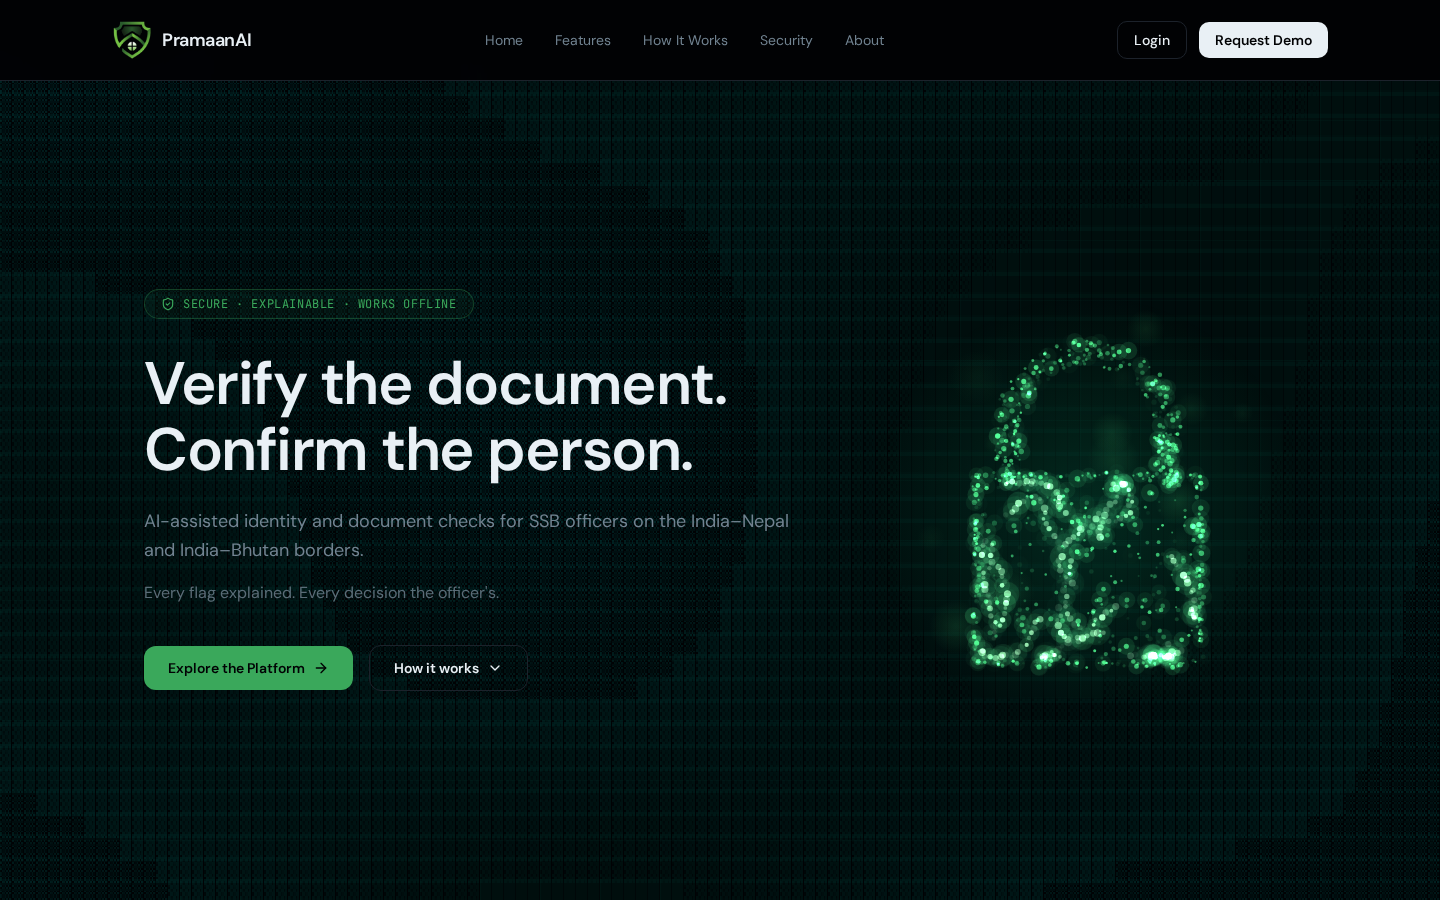
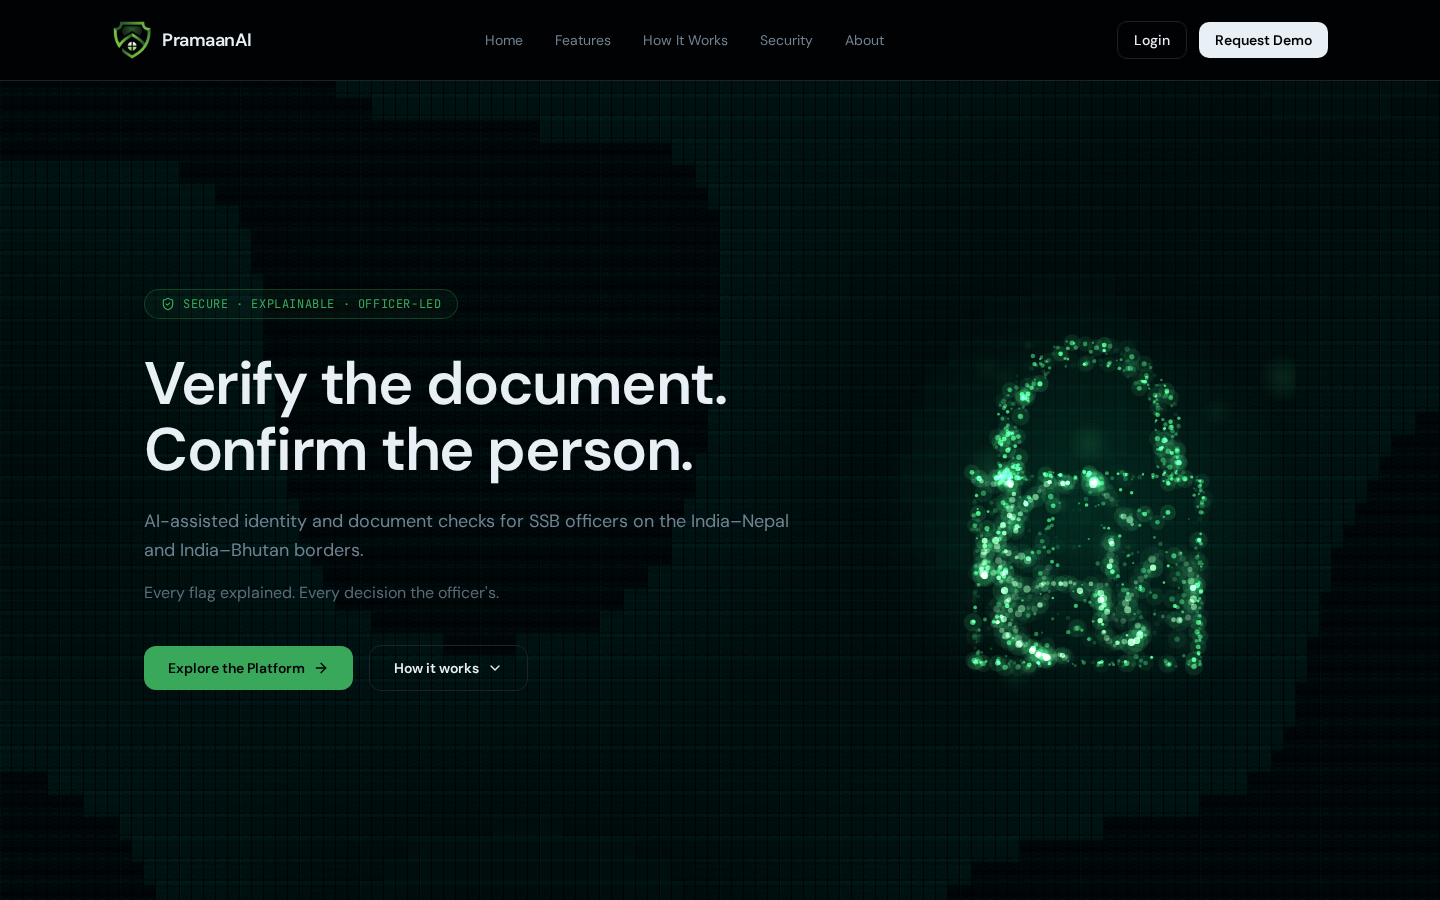
Landing: officer-led focus; add SSB operations and trust sections
Removes 'works offline'. Adds border-aware rules, three operations pillars
(command oversight, defensible evidence, ready to integrate), a trust and
security strip, and document-type count.

Changed region(s): [[0.6562, 0.3733, 0.8438, 0.7467], [0.25, 0.3111, 0.3438, 0.3422]]

diff --git a/frontend/src/pages/LandingPage.tsx b/frontend/src/pages/LandingPage.tsx
@@ -6,8 +6,14 @@ import {
   ScanSearch,
   ShieldAlert,
   UserCheck,
-  WifiOff,
   Eye,
+  Landmark,
+  LayoutDashboard,
+  FileCheck,
+  Network,
+  KeyRound,
+  Lock,
+  ScrollText,
   Users,
   ChevronDown,
 } from 'lucide-react'
@@ -20,7 +26,7 @@ const CAPABILITIES = [
   { icon: ScanSearch, title: 'Reads every border document', desc: 'Passports, visas, permits, licences, Aadhaar and stamps, in English, Hindi and Nepali.' },
   { icon: ShieldAlert, title: 'Spots inconsistencies', desc: 'MRZ digits, dates, stamps, QR signatures and altered regions, checked in seconds.' },
   { icon: UserCheck, title: 'Confirms the person', desc: 'Face match with a live photo, plus blink and head-turn liveness.' },
-  { icon: WifiOff, title: 'Works offline', desc: 'Encrypted on the phone and verified automatically when the network returns.' },
+  { icon: Landmark, title: 'Border-aware rules', desc: 'India–Nepal and India–Bhutan crossing rules applied to every result.' },
   { icon: Eye, title: 'Explains every flag', desc: 'Named reasons, marked on the document itself. Never a mystery score.' },
   { icon: Users, title: 'The officer decides', desc: 'Clear, or send to an admin, who answers with evidence in view.' },
 ]
@@ -32,10 +38,23 @@ const STEPS = [
   { step: '04', title: 'Decide', desc: 'Clear, or send to an admin for review.' },
 ]
 
+const PILLARS = [
+  { icon: LayoutDashboard, title: 'Command oversight', desc: 'Admins review every case sent from the field — document, live photo, findings and a suggested action — and every decision is logged.' },
+  { icon: FileCheck, title: 'Evidence you can defend', desc: 'Each result names the check, marks the exact spot on the document and is sealed in a tamper-evident record.' },
+  { icon: Network, title: 'Ready to integrate', desc: 'Every check is a separate service, ready to connect to authorised government systems without changing the app.' },
+]
+
+const TRUST = [
+  { icon: KeyRound, title: 'Role-based access', desc: 'Enforced on the server' },
+  { icon: Lock, title: 'Encrypted', desc: 'In transit and on the device' },
+  { icon: ScrollText, title: 'Tamper-evident audit', desc: 'Every action recorded' },
+  { icon: ShieldCheck, title: 'Privacy by design', desc: 'Only needed regions leave the phone' },
+]
+
 const FACTS = [
   { value: '2', label: 'open borders: Nepal and Bhutan' },
+  { value: '10+', label: 'document types' },
   { value: '7', label: 'app languages' },
-  { value: 'Offline', label: 'first, sync later' },
   { value: 'Every', label: 'flag explained' },
 ]
 
@@ -66,7 +85,7 @@ export function LandingPage() {
               className={`inline-flex items-center gap-2 rounded-full border border-accent/30 bg-accent/5 px-4 py-1.5 font-mono text-xs uppercase tracking-wider text-accent transition-all duration-700 ${heroVisible ? 'opacity-100' : 'translate-y-2 opacity-0'}`}
             >
               <ShieldCheck className="h-3.5 w-3.5" />
-              Secure &middot; Explainable &middot; Works offline
+              Secure &middot; Explainable &middot; Officer-led
             </div>
             <h1
               className={`mt-8 text-4xl font-semibold leading-[1.1] tracking-tight transition-all delay-100 duration-700 sm:text-5xl lg:text-6xl ${heroVisible ? 'opacity-100' : 'translate-y-4 opacity-0'}`}
@@ -163,6 +182,49 @@ export function LandingPage() {
                   <p className="mt-1.5 text-sm leading-relaxed text-muted-foreground">{desc}</p>
                 </div>
               </RevealSection>
+            ))}
+          </div>
+        </div>
+      </section>
+
+      {/* Built for SSB operations */}
+      <section className="px-6 py-20 lg:px-8">
+        <div className="mx-auto max-w-6xl">
+          <RevealSection className="text-center">
+            <p className="font-mono text-xs uppercase tracking-widest text-accent">Built for SSB operations</p>
+            <h2 className="mt-4 text-3xl font-semibold tracking-tight sm:text-4xl">From the post to command</h2>
+          </RevealSection>
+          <div className="mt-12 grid grid-cols-1 gap-5 lg:grid-cols-3">
+            {PILLARS.map(({ icon: Icon, title, desc }) => (
+              <RevealSection key={title}>
+                <div className="h-full rounded-xl border border-border bg-card p-7">
+                  <div className="flex h-11 w-11 items-center justify-center rounded-lg border border-accent/30 bg-accent/10">
+                    <Icon className="h-5 w-5 text-accent" strokeWidth={1.75} />
+                  </div>
+                  <h3 className="mt-5 text-lg font-semibold text-foreground">{title}</h3>
+                  <p className="mt-2 text-sm leading-relaxed text-muted-foreground">{desc}</p>
+                </div>
+              </RevealSection>
+            ))}
+          </div>
+        </div>
+      </section>
+
+      {/* Trust and security */}
+      <section className="bg-secondary/30 px-6 py-16 lg:px-8">
+        <div className="mx-auto max-w-6xl">
+          <RevealSection className="text-center">
+            <h2 className="text-2xl font-semibold tracking-tight sm:text-3xl">Trust and security, built in</h2>
+          </RevealSection>
+          <div className="mt-10 grid grid-cols-2 gap-5 lg:grid-cols-4">
+            {TRUST.map(({ icon: Icon, title, desc }) => (
+              <div key={title} className="flex items-start gap-3 rounded-xl border border-border bg-card p-5">
+                <Icon className="mt-0.5 h-5 w-5 shrink-0 text-accent" strokeWidth={1.75} />
+                <div>
+                  <p className="text-sm font-semibold text-foreground">{title}</p>
+                  <p className="mt-0.5 text-xs text-muted-foreground">{desc}</p>
+                </div>
+              </div>
             ))}
           </div>
         </div>
